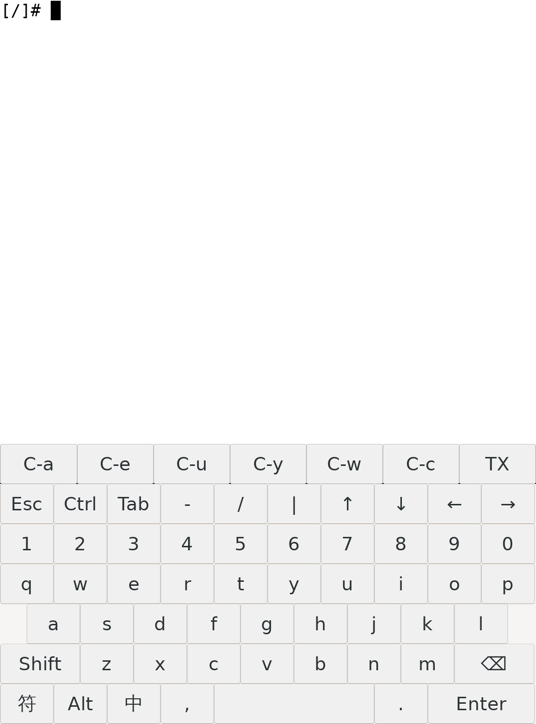
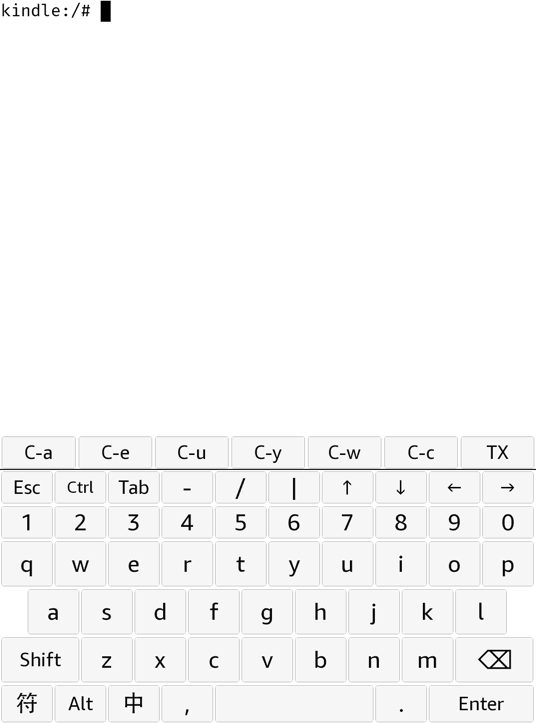
README: taller letter rows, keys tapped turn black; new keyboard picture

diff --git a/README.md b/README.md
@@ -9,7 +9,7 @@
 
 ## 能做什么
 
-- **适合敲命令的键盘**：Esc、Ctrl、Tab、方向键和数字都在第一屏。Shift 出大写和 `!@#`，“符”键出 F1–F12 和各种符号。按下的 Shift、Ctrl、Alt、“符”会变黑，用完自动恢复。
+- **适合敲命令的键盘**：Esc、Ctrl、Tab、方向键和数字都在第一屏。Shift 出大写和 `!@#`，“符”键出 F1–F12 和各种符号。字母行比其他行高，键之间留了空隙，不容易按错。点过的键变黑并保持 0.4 秒，打字快时也看得出前几下都按到了；按下的 Shift、Ctrl、Alt、“符”会一直黑着，用完自动恢复。
 - **中文输入**：点“中”调出 Kindle 自带的拼音键盘。
 - **快捷栏**：键盘上方一排按钮，点一下发一串按键，比如 `C-a`、`C-u`、tmux 前缀。可以在面板里添加、修改、删除；按钮多了左右滑动翻页。
 - **上滑面板**：在键盘上往上滑打开，点键盘或终端就收起。
@@ -40,7 +40,7 @@
 
 - 在 Kindle 的 X 服务器上跑 GTK+ 3 和 VTE 0.84（来自 Alpine 的软件包，程序在 Alpine chroot 里运行）。
 - 窗口用 X 服务器的 8 位 TrueColor 格式，和屏幕同深度，不用转换。32 位窗口每次刷新都要由 X 服务器转换成灰度，在 Kindle 深色模式下慢约 50 倍，持续输出会让整台设备卡死。代价是灰度只有 8 级，界面颜色按这 8 级挑选（`KTERM_VISUAL=32` 可换回 32 位窗口）。
-- 新键盘布局 [layouts/keyboard-kindle.xml](layouts/keyboard-kindle.xml)：每行 10 个键宽，Shift / “符”两层；键宽从屏幕宽度算（直接问 X 服务器，旋转后立即正确）。
+- 新键盘布局 [layouts/keyboard-kindle.xml](layouts/keyboard-kindle.xml)：每行 10 个键宽，Shift / “符”两层；每行可以设自己的高度（`<row height="1200">`，千分之一行高为单位），字母三行高 1.2 倍，功能键和数字行 0.875 倍；键宽从屏幕宽度算（直接问 X 服务器，旋转后立即正确）。
 - 触屏手势：Kindle 触屏驱动用 X 按键报告手势：手指是 1 号键，滑动途中多发一次 3 号（上滑）或 4 号（下滑，X 里就是滚轮），按住不动半秒发 9 号，第二根手指是 2 号。kterm 先扣住按下，等抬手时判断是点击、滑动、长按还是双指：点击整个交给程序，滑动按手指距离滚动（一行对一行），长按用 VTE 自己选中（加 Shift，tmux 开着鼠标也能选），双指当右键。驱动多发的按键都不交给程序。
 - 拼音输入：通过 lipc / D-Bus 调起系统键盘，把它输入的文字转给终端（[ime.c](ime.c)）。
 - 面板（[panel.c](panel.c)）：SSH 连接直接存在 `~/.ssh/config` 的 Host 块里（[sshconf.c](sshconf.c)），只改动对应的那几行，所以命令行、scp、git 也能用同一份配置。
